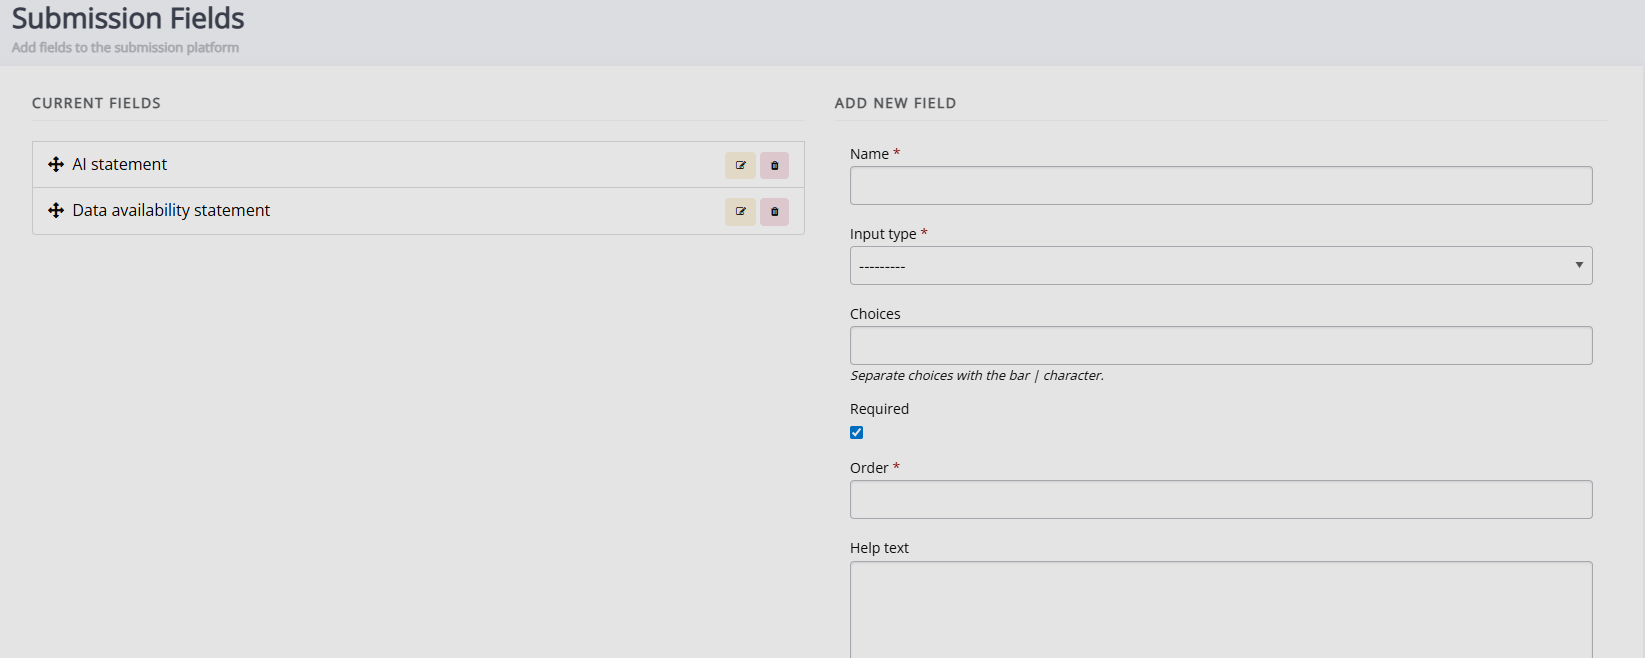
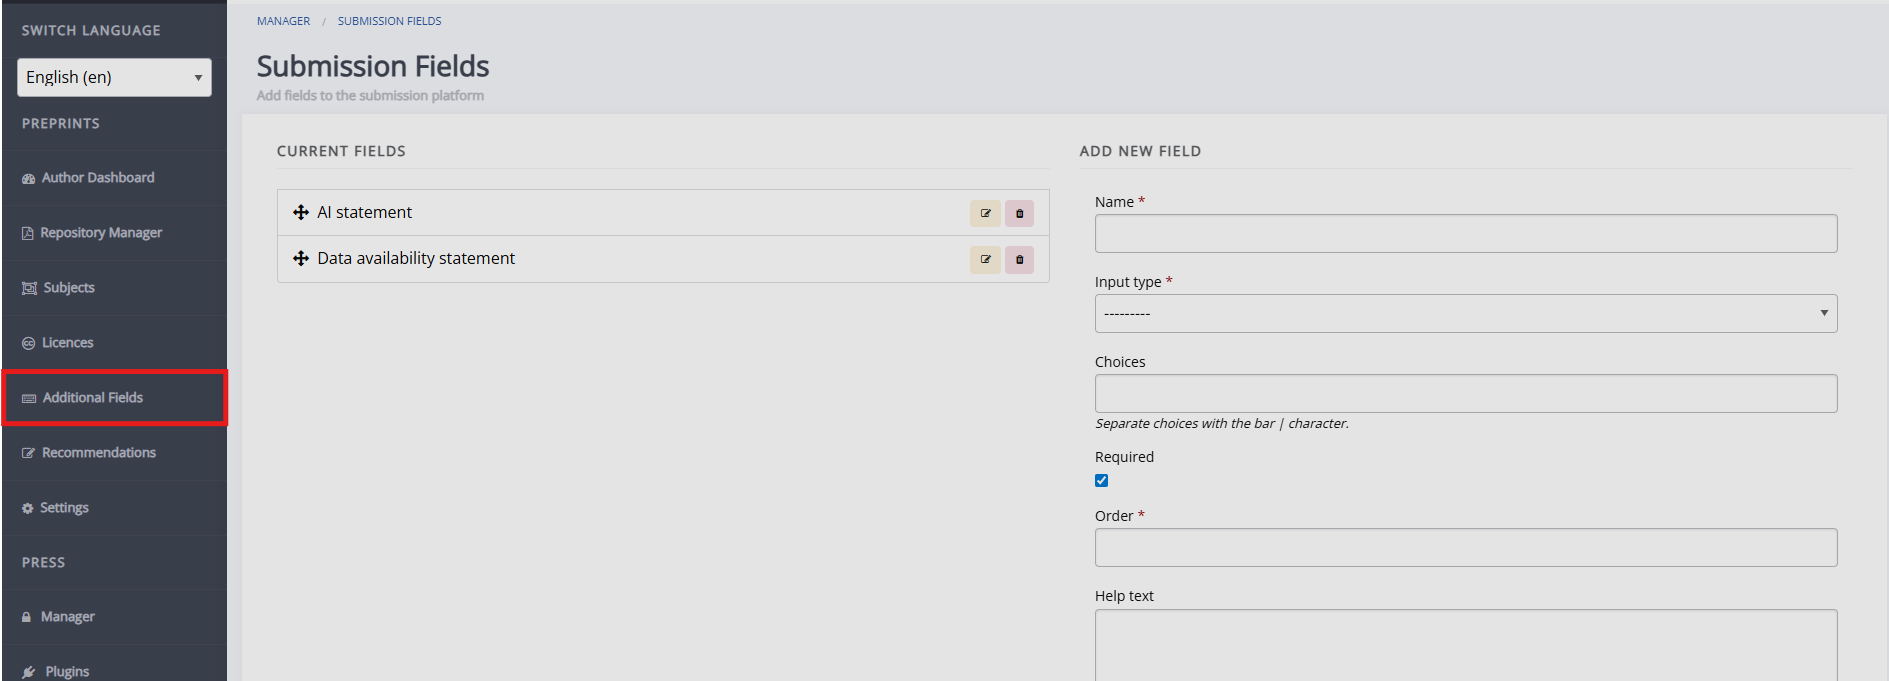
repo updates

diff --git a/content/support/repository/repositories-moderator.md b/content/support/repository/repositories-moderator.md
@@ -32,14 +32,16 @@ Clicking on the title of a preprint will take you to the preprint dashboard. Her
 
 ## Unpublished preprints
 
+Similar to published preprints, you can click on the title of an unpublished preprint in the Repository manager to be taken to the preprint page. On this page, you can review the (supplementary) files and metadata.
+
+If upon initial review, the preprint is suitable, you can click **Create a version with this file**. After this, you can invite reviewers and take other actions to process the preprint. To reject the preprint, you can select **Reject article** in the control section, an email prompt will open up where you can explain your reasoning to the author(s). When the preprint is ready for publication, you can click **Accept preprint** in the Control block, and set a publication date.
+
 ### Controls
 
 ![" "](../images/repositories/repo-preprint-controls.png)
 
 Similar to published preprints, the controls block will display the preprint's status and primary identifier, and present various options. These are the same as those for published preprints, except that 'Edit published date' and 'Un-publish this article' have been replaced with 'Accept article' and 'Reject article'.
 
-### Accepting preprints
+## Moderating new versions
 
-### Rejecting preprints
-
-## Preprints awaiting moderation
+## Handling review commens

diff --git a/content/support/repository/repositories-settings.md b/content/support/repository/repositories-settings.md
@@ -24,6 +24,16 @@ Additional settings for licenses, additional submission fields, subjects. <!-- m
 
 ## Licenses
 
+![" "](../images/repositories/repo-licences.png)
+
 ## Subjects
 
+![" "](../images/repositories/repo-subjects.png)
+
 ## Additional submission fields
+
+![" "](../images/repositories/repo-additional-fields.png)
+
+## Recommendations
+
+![" "](../images/repositories/repo-recommendations.png)
